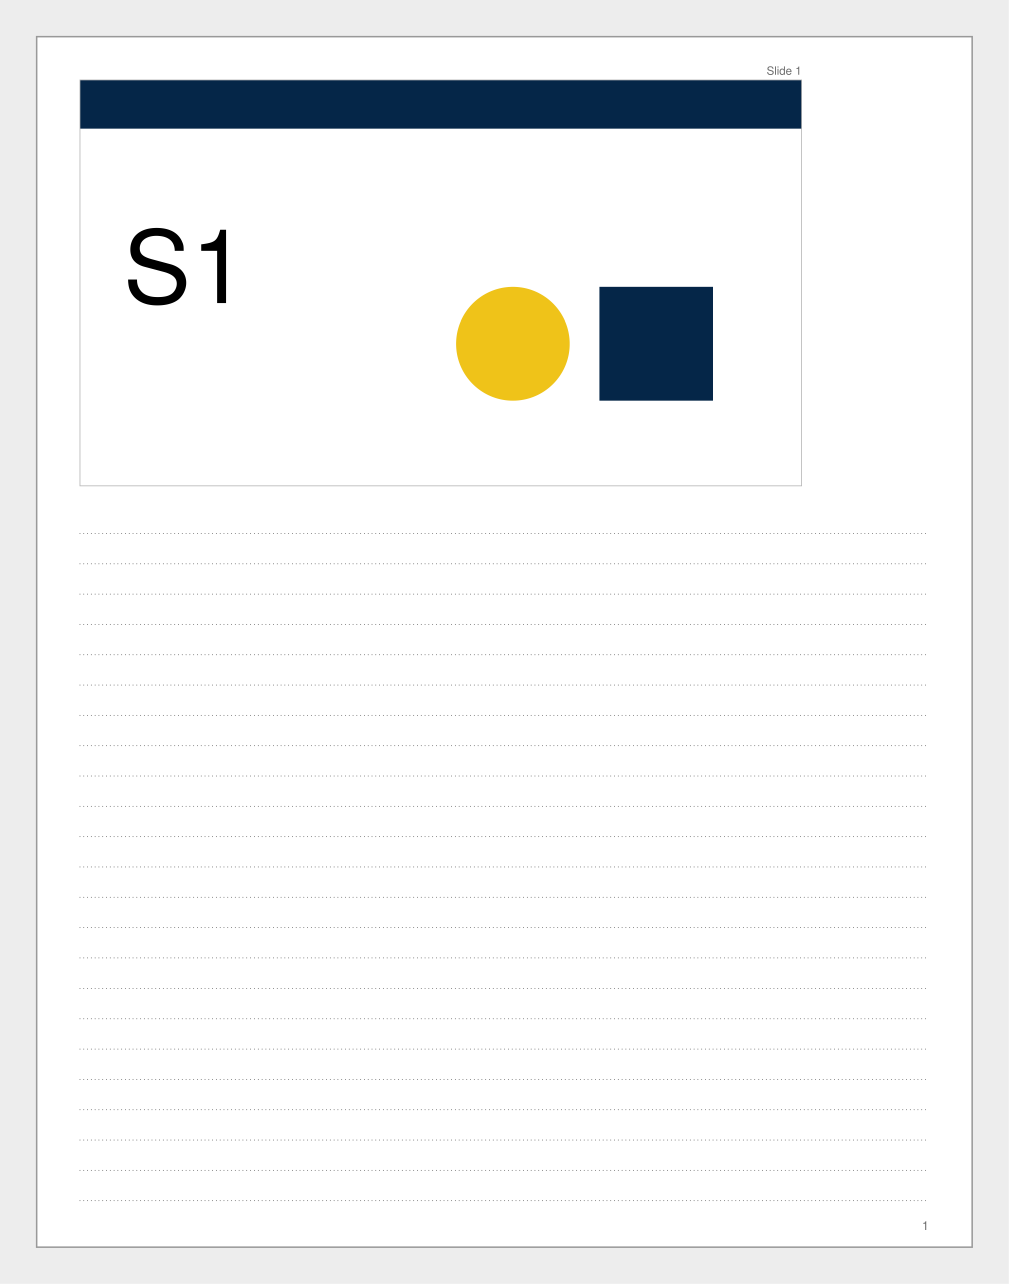
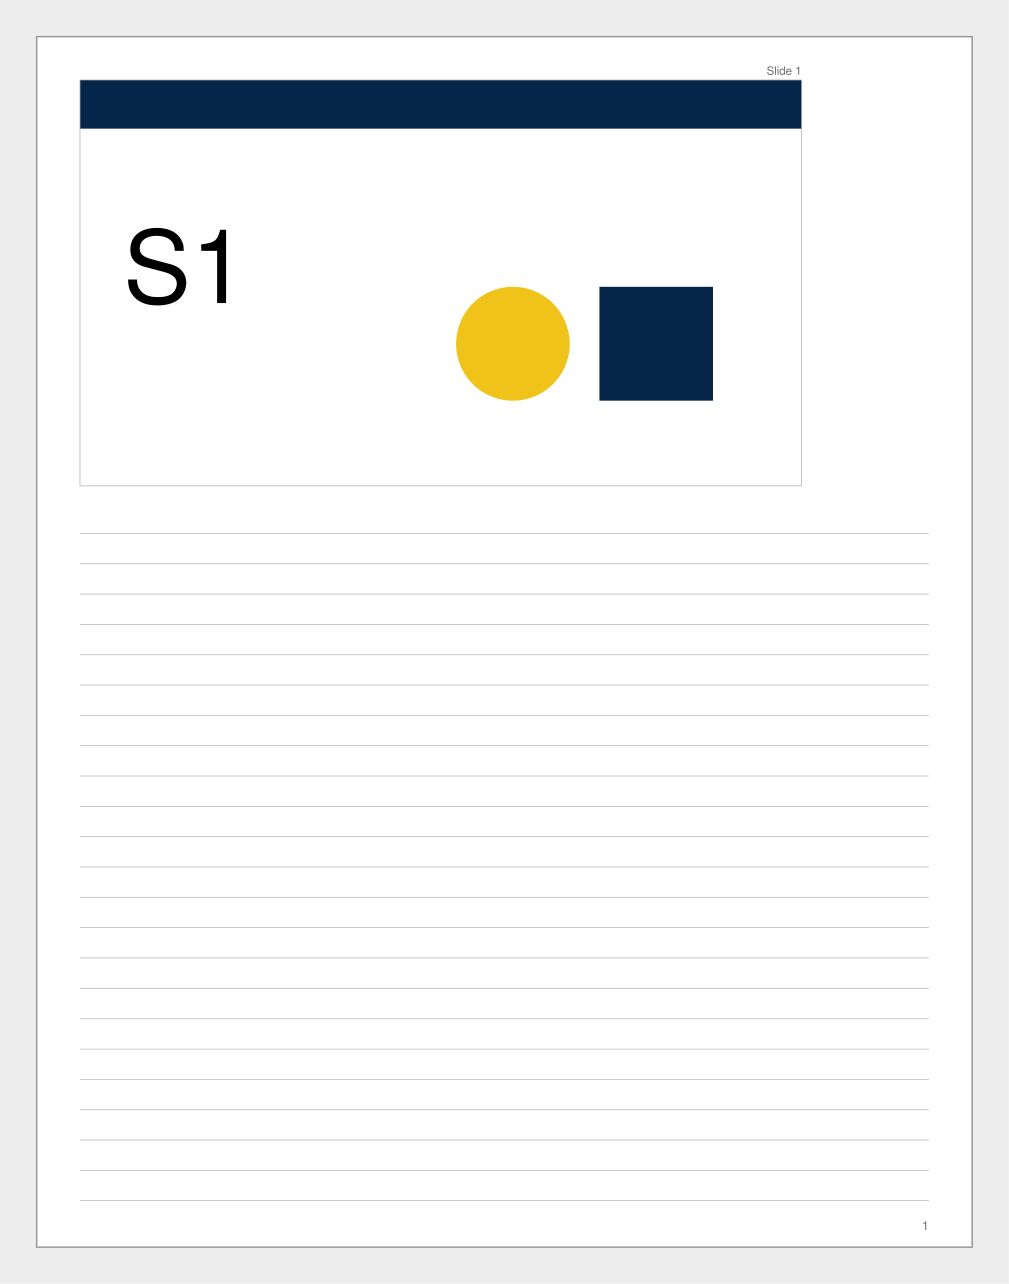
fix: final review fixes, solid or dotted lines, clearer skill questions
- Pin Python 3.13 in every run command, so a fresh machine resolves
  PyMuPDF 2.1 (onnxruntime has no wheels for the newest Python).
- Refuse a picture named .pdf, pages turned inside the PDF, and pages
  narrower than any slide that are not a paper size.
- Refuse a typeable box on both sides before building or saving.
- Conversion closes a deck only if it opened it, so a deck already open
  keeps its unsaved edits; a compile test guards both AppleScripts.
- Lines can be solid (light grey) or dotted (dark grey dots);
  gallery examples 3 and 11 show dotted lines.
- The skill asks each option on its own and never drops a choice,
  leaves file naming to the script, and saves a gallery example as the
  usual under the person's own name.

diff --git a/tests/test_skill.py b/tests/test_skill.py
@@ -19,8 +19,19 @@ def test_skill_uses_only_real_subcommands_and_flags():
             if isinstance(action, type(parser._subparsers._group_actions[0])):
                 for nested in action.choices.values():
                     known |= {f for a in nested._actions for f in a.option_strings}
-    uv_flags = {"--no-project", "--with", "--directory", "--version"}
+    uv_flags = {"--no-project", "--with", "--directory", "--version", "--python"}
     assert set(re.findall(r"(--[a-z][a-z-]+)", text)) - uv_flags <= known
+
+
+def test_every_run_command_names_python_3_13():
+    # PyMuPDF 2.1 needs onnxruntime, which has no wheels for the newest Python, so a fresh machine
+    # fails unless uv is told which Python to use (final review C1; Julian kept 2.1, 2026-11-10).
+    root = SKILL.parents[2]
+    files = [SKILL, root / "CLAUDE.md", root / "scripts" / "handouts.py",
+             root / "tools" / "build_gallery.py", root / "tests" / "make_fixtures.py"]
+    commands = [line for f in files for line in f.read_text().splitlines() if "uv run" in line and "pymupdf" in line]
+    assert len(commands) >= 6
+    assert all("--python 3.13" in line for line in commands), [c for c in commands if "--python 3.13" not in c]
 
 
 def test_description_names_the_job_and_trigger_phrases():
@@ -34,3 +45,29 @@ def test_no_ranking_words():
     for path in (SKILL, SKILL.parents[2] / "README.md"):
         if path.exists():
             assert not re.search(r"\b(recommend\w*|best|ideal|preferred|most popular)\b", path.read_text(), re.I), path
+
+
+def test_skill_asks_each_option_on_its_own_and_never_drops_a_choice():
+    # Install test, 2026-11-10: notes position and style merged into one 4-choice question hid blank space,
+    # the typeable box and "beside and under". AskUserQuestion shows at most four choices.
+    text = SKILL.read_text()
+    assert "Ask each option as its own question" in text and "Never leave a choice out" in text
+    assert '"1", "2", "3" and "4 or 6"' in text and "solid or dotted" in text
+
+
+def test_skill_leaves_the_naming_to_the_script():
+    # Install test: Claude chose its own --out names, which skipped the script's safe names and _v2 rule.
+    assert "Leave out `--out` unless the person names a folder or a file name" in SKILL.read_text()
+
+
+def test_skill_saves_a_gallery_example_as_usual_under_a_new_name():
+    # Install test: "make example 6 my usual" hit the gallery refusal before Claude asked for a name.
+    text = SKILL.read_text()
+    assert "To make a gallery example the usual, ask for a name of their own" in text
+
+
+def test_skill_flags_are_on_the_commands_that_take_them():
+    # Final review minor 11: --deck went to "every later command", but preview and layouts save reject it.
+    text = SKILL.read_text()
+    assert "pass `--deck <original file>` to `detect` and `build`" in text
+    assert "and pass it to `build` too" in text and '"${CLAUDE_PLUGIN_ROOT}/scripts/handouts.py" convert' not in text

diff --git a/scripts/slide_handouts/render.py b/scripts/slide_handouts/render.py
@@ -9,7 +9,8 @@ from .detect import Detection
 from .geometry import MARGIN, MM, LayoutOptions, check_layout, plan_page
 
 BORDER = (0.70, 0.70, 0.70)
-LINE = (0.25, 0.25, 0.25)          # 75% black, dark charcoal (Julian, 2026-11-10)
+LINE = (0.25, 0.25, 0.25)          # dotted lines and dots: 75% black, dark charcoal (Julian, 2026-11-10)
+SOLID = (0.73, 0.73, 0.73)         # solid lines: 27% black, as before dotted lines arrived
 LABEL = (0.43, 0.43, 0.43)          # #6E6E6E, 4.5 to 1 on white
 LABEL_COLOUR_INT = 0x6E6E6E
 FIELD_TEXT = (0.13, 0.13, 0.13)
@@ -48,23 +49,26 @@ def _box(page: pymupdf.Page, rect: pymupdf.Rect, number: int, digits: int) -> No
 def _marks(page: pymupdf.Page, areas: list, style: str, spacing: float) -> None:
     """All of a page's lines or dots in one shape, so big decks stay quick and small.
 
-    Each row is one dashed stroke, as a dotted stroke in Illustrator: each tiny round-capped dash is a dot.
-    Lines are rows of dots an eighth of the spacing apart (Julian, 2026-11-10); dots are a square grid."""
-    if style not in ("lines", "dots") or not areas:
+    Dotted lines and the dot grid are one dashed stroke per row, as a dotted stroke in Illustrator: each tiny
+    round-capped dash is a dot. Dotted lines have dots an eighth of the spacing apart (Julian, 2026-11-10)."""
+    if style not in ("lines", "dotted", "dots") or not areas:
         return
-    step = spacing / 8 if style == "lines" else spacing
+    step = spacing / 8 if style == "dotted" else spacing
     shape = page.new_shape()
     for a in areas:
-        if style == "lines":
-            first, y, bottom = a.x0, a.y0 + spacing, a.y1 + 0.01
-        else:
+        if style == "dots":
             first, y, bottom = a.x0 + spacing / 2, a.y0 + spacing / 2, a.y1
-        last = first + int((a.x1 - first) // step) * step
+        else:
+            first, y, bottom = a.x0, a.y0 + spacing, a.y1 + 0.01
+        # a dotted row runs half a gap past its last dot, so that dot's dash is drawn
+        end = a.x1 if style == "lines" else first + int((a.x1 - first) // step) * step + step / 2
         while y <= bottom:
-            shape.draw_line((first, y), (last + step / 2, y))  # half a gap past the last dot, so its dash is drawn
+            shape.draw_line((first, y), (end, y))
             y += spacing
-    # the dash period equals the step exactly, so dots never creep along a row
-    shape.finish(color=LINE, width=0.6, lineCap=1, closePath=False, dashes=f"[0.01 {step - 0.01:.4f}] 0")
+    if style == "lines":
+        shape.finish(color=SOLID, width=0.5)
+    else:  # the dash period equals the step exactly, so dots never creep along a row
+        shape.finish(color=LINE, width=0.6, lineCap=1, closePath=False, dashes=f"[0.01 {step - 0.01:.4f}] 0")
     shape.commit()
 
 

diff --git a/tests/test_render.py b/tests/test_render.py
@@ -36,7 +36,7 @@ def test_typeable_box_fields(tmp_path):
     assert doc.xref_get_key(doc.pdf_catalog(), "AcroForm/NeedAppearances") == ("bool", "true")
 
 
-@pytest.mark.parametrize("style, marks", [("lines", True), ("dots", True), ("blank", False)])
+@pytest.mark.parametrize("style, marks", [("lines", True), ("dotted", True), ("dots", True), ("blank", False)])
 def test_each_notes_style_draws_its_marks(tmp_path, style, marks):
     _, out = build(tmp_path, notes="under", per_page=2, style=style, spacing_mm=5 if style == "dots" else 8)
     page = pymupdf.open(out)[0]
@@ -113,17 +113,25 @@ def test_dots_sit_on_the_grid_to_the_end_of_each_row(tmp_path):
             assert pix.pixel(round((x + step / 2) * zoom), round(y * zoom))[0] > 250, (x, y)  # white between
 
 
-@pytest.mark.parametrize("style", ["lines", "dots"])
+@pytest.mark.parametrize("style", ["dotted", "dots"])
 def test_notes_marks_are_75_percent_black(tmp_path, style):
-    # Julian, 2026-11-10: lines and the dot grid print in dark charcoal, not light grey.
+    # Julian, 2026-11-10: dotted lines and the dot grid print in dark charcoal, not light grey.
     _, out = build(tmp_path, src=deck_pdf(tmp_path / "d.pdf", n=2), notes="under", per_page=2, style=style, spacing_mm=8)
     strokes = [d for d in pymupdf.open(out)[0].get_drawings() if (d.get("dashes") or "[] 0") != "[] 0"]
     assert strokes and all(pytest.approx(d["color"], abs=0.01) == (0.25, 0.25, 0.25) for d in strokes)
 
 
-def test_lines_are_dotted_with_dots_an_eighth_of_the_spacing_apart(tmp_path):
-    # Julian, 2026-11-10: each ruled line is a row of dots an eighth of the spacing apart (1 mm at 8 mm lines).
-    opts = dict(notes="under", per_page=2, style="lines", spacing_mm=8)
+def test_solid_lines_are_unbroken_and_light_grey(tmp_path):
+    # Julian, 2026-11-10: lines can be solid or dotted. Solid lines come back as they were: 0.5 pt, 27% black.
+    _, out = build(tmp_path, src=deck_pdf(tmp_path / "d.pdf", n=2), notes="under", per_page=2, style="lines", spacing_mm=8)
+    lines = [d for d in pymupdf.open(out)[0].get_drawings() if any(i[0] == "l" for i in d["items"])]
+    assert lines and all((d.get("dashes") or "[] 0") == "[] 0" for d in lines)
+    assert all(pytest.approx(d["color"], abs=0.01) == (0.73, 0.73, 0.73) and abs(d["width"] - 0.5) < 0.01 for d in lines)
+
+
+def test_dotted_lines_have_dots_an_eighth_of_the_spacing_apart(tmp_path):
+    # Julian, 2026-11-10: each dotted line is a row of dots an eighth of the spacing apart (1 mm at 8 mm lines).
+    opts = dict(notes="under", per_page=2, style="dotted", spacing_mm=8)
     _, out = build(tmp_path, src=deck_pdf(tmp_path / "d.pdf", n=2), **opts)
     area = plan_page(LayoutOptions(**{**O, **opts}), 405 / 720).cells[0].notes[0]
     spacing, zoom = 8 * 72 / 25.4, 8

diff --git a/tests/test_convert.py b/tests/test_convert.py
@@ -16,6 +16,27 @@ from slide_handouts.detect import RefusedError
 REAL = Path(__file__).parent / "fixtures" / "real"
 
 
+@pytest.mark.parametrize("app, kind", [("PowerPoint", "presentations"), ("Keynote", "documents")])
+def test_a_deck_that_was_already_open_is_left_open(app, kind):
+    # Final review I2: opening an already-open deck returns the person's window, and "close saving no" then
+    # dropped their unsaved edits. Close only a deck the script opened itself: the count of open ones went up.
+    script = convert_module.MAC_SCRIPTS[app]
+    lines = [line.strip() for line in script.splitlines()]
+    count = lines.index(f"set openBefore to count of {kind}")
+    opened = next(i for i, line in enumerate(lines) if line.startswith(("open ", "set d to open ")))
+    closes = [line for line in lines if " saving no" in line]
+    assert count < opened and closes and all(line.startswith(f"if (count of {kind}) > openBefore then close ") for line in closes)
+
+
+@pytest.mark.skipif(sys.platform != "darwin" or not shutil.which("osacompile"), reason="needs macOS osacompile")
+@pytest.mark.parametrize("app", ["PowerPoint", "Keynote"])
+def test_mac_scripts_compile(app, tmp_path):
+    # A reserved word ("before") once broke both scripts while every text check passed.
+    result = subprocess.run(["osacompile", "-o", str(tmp_path / "s.scpt"), "-"], input=convert_module.MAC_SCRIPTS[app],
+                            capture_output=True, text=True)
+    assert result.returncode == 0, result.stderr
+
+
 def test_sweep_removes_only_old_folders(tmp_path, monkeypatch):
     monkeypatch.setattr(tempfile, "tempdir", str(tmp_path))
     old, new, other = (tmp_path / n for n in ("slide-handouts-old", "slide-handouts-new", "keep-me"))

diff --git a/tests/test_layouts.py b/tests/test_layouts.py
@@ -1,9 +1,10 @@
+import argparse
 import json
 from collections import defaultdict
 
 import pytest
 
-from slide_handouts.layouts import (GALLERY, LayoutError, delete_layout, list_layouts, load_store, resolve,
+from slide_handouts.layouts import (GALLERY, LayoutError, add_layout_arguments, delete_layout, list_layouts, load_store, resolve,
                                     save_layout)
 
 FULL = ["--paper", "a4", "--orientation", "portrait", "--per-page", "3", "--notes", "beside",
@@ -65,7 +66,10 @@ def test_gallery_covers_every_option_value(tmp_path):
         seen["size"].add(o.size if isinstance(o.size, str) else "mm")
         seen["spacing"].add(o.spacing_mm)
     assert seen["per_page"] == {1, 2, 3, 4, 6} and seen["notes"] == {"beside", "under", "both"}
-    assert seen["style"] == {"lines", "dots", "blank", "box"} and {5, 6, 7, 8} <= seen["spacing"]
+    parser = argparse.ArgumentParser()
+    add_layout_arguments(parser)
+    styles = next(a for a in parser._actions if a.dest == "style").choices  # every style the script offers
+    assert seen["style"] == set(styles) and {5, 6, 7, 8} <= seen["spacing"]
     assert seen["size"] == {"smaller", "medium", "larger", "mm"} and len(seen["paper"]) == 2
 
 
@@ -78,3 +82,5 @@ def test_spacing_fallbacks_follow_the_style(tmp_path):
     dots = [a if a != "lines" else "dots" for a in FULL]
     assert resolve(dots, None, tmp_path / "l.json").spacing_mm == 5
     assert resolve(FULL, None, tmp_path / "l.json").spacing_mm == 8
+    dotted = [a if a != "lines" else "dotted" for a in FULL]
+    assert resolve(dotted, None, tmp_path / "l.json").spacing_mm == 8

diff --git a/scripts/slide_handouts/detect.py b/scripts/slide_handouts/detect.py
@@ -39,6 +39,8 @@ def open_pdf(path: Path) -> pymupdf.Document:
         doc = pymupdf.open(str(path), filetype="pdf")
     except Exception:
         raise RefusedError(f"{name} could not be opened. It may be damaged, or not a PDF.") from None
+    if not doc.is_pdf:  # MuPDF opens a picture even when told it is a PDF
+        raise RefusedError(f"{name} is not a PDF. Export the slides to PDF and try again.")
     if doc.needs_pass:
         raise RefusedError(f"{name} is protected by a password. Export it again without one.")
     if doc.page_count == 0:
@@ -210,6 +212,8 @@ def _handout(doc: pymupdf.Document, frames: list, order: str) -> Detection:
 
 
 def detect(doc: pymupdf.Document, order: str = "rows", one_per_page: bool = False) -> Detection:
+    if any(page.rotation for page in doc):  # show_pdf_page ignores a source page's rotation
+        raise RefusedError(f"Some pages are turned inside the PDF, so the slides cannot be placed reliably. {EXPORT_ADVICE}")
     if one_per_page:
         return _deck(doc)
     frames = _frames(doc)
@@ -221,4 +225,6 @@ def detect(doc: pymupdf.Document, order: str = "rows", one_per_page: bool = Fals
     # Keynote's handout export uses 1024 x 768 pt pages, not paper.
     if frames and len(frames[0]) >= 2 and all(len(f) >= 2 for f in frames[:-1]):
         return _handout(doc, frames, order)
+    if doc[0].rect.width / doc[0].rect.height < 1.2:  # narrower than any slide: a scan or a printed page
+        raise RefusedError(NO_FRAMES)
     return _deck(doc)

diff --git a/scripts/slide_handouts/convert.py b/scripts/slide_handouts/convert.py
@@ -18,14 +18,17 @@ OLD_TEMP = 24 * 3600
 EXPORT_YOURSELF = "export a PDF from your slide app instead, one slide per page, as the guide shows"
 PERMISSION = ("macOS did not allow Claude to control {app}. To allow it, open System Settings, Privacy and Security, "
               "Automation, and turn on {app} under the app you run Claude Code in. Or export the PDF yourself, as the guide shows.")
+# Opening a deck that is already open returns the person's own window, so a script closes only a deck it
+# opened itself, or "saving no" would drop their unsaved edits.
 MAC_SCRIPTS = {
     "PowerPoint": """on run argv
 	with timeout of 300 seconds
 		tell application "Microsoft PowerPoint"
+			set openBefore to count of presentations
 			open POSIX file (item 1 of argv)
 			set p to active presentation
 			save p in POSIX file (item 2 of argv) as save as PDF
-			close p saving no
+			if (count of presentations) > openBefore then close p saving no
 		end tell
 	end timeout
 end run""",
@@ -34,9 +37,10 @@ end run""",
 		tell application "Keynote"
 			launch
 			delay 2
+			set openBefore to count of documents
 			set d to open POSIX file (item 1 of argv)
 			export d to POSIX file (item 2 of argv) as PDF with properties {PDF image quality:Best, skipped slides:false}
-			close d saving no
+			if (count of documents) > openBefore then close d saving no
 		end tell
 	end timeout
 end run""",

diff --git a/tests/test_detect_deck.py b/tests/test_detect_deck.py
@@ -3,6 +3,8 @@ from pathlib import Path
 
 import pytest
 
+import pymupdf
+
 from make_fixtures import damaged_pdf, deck_pdf, empty_pdf, encrypted_pdf, paper_deck_pdf
 from slide_handouts.detect import RefusedError, detect, open_pdf, shape_name
 
@@ -48,3 +50,21 @@ def test_real_deck_exports(name):
     d = detect(open_pdf(REAL / name))
     assert len(d.slides) == EXPECTED[name]["count"]
     assert [s.number for s in d.slides] == EXPECTED[name]["numbers"]
+
+
+def test_refuses_a_picture_named_pdf(tmp_path):
+    # Final review I5: MuPDF opens a PNG even when told it is a PDF, and build then failed with a traceback.
+    picture = tmp_path / "slides.pdf"
+    pymupdf.Pixmap(pymupdf.csRGB, pymupdf.IRect(0, 0, 40, 30), False).save(str(picture), output="png")
+    with pytest.raises(RefusedError, match="not a PDF"):
+        open_pdf(picture)
+
+
+@pytest.mark.parametrize("one_per_page", [False, True])
+def test_refuses_pages_turned_inside_the_pdf(tmp_path, one_per_page):
+    # Final review I6: a /Rotate page was placed cropped and unrotated, and the self-check passed.
+    doc = pymupdf.open(deck_pdf(tmp_path / "d.pdf", n=2))
+    doc[1].set_rotation(90)
+    doc.save(str(tmp_path / "r.pdf"))
+    with pytest.raises(RefusedError, match="turned"):
+        detect(open_pdf(tmp_path / "r.pdf"), one_per_page=one_per_page)

diff --git a/scripts/slide_handouts/geometry.py b/scripts/slide_handouts/geometry.py
@@ -48,7 +48,7 @@ class PageLayout:
 
 
 def under_min(opts: LayoutOptions) -> float:
-    return 2 * opts.spacing_mm * MM if opts.style in ("lines", "dots") else 16 * MM
+    return 2 * opts.spacing_mm * MM if opts.style in ("lines", "dotted", "dots") else 16 * MM
 
 
 def _larger(opts, cols, rows, w, h, aspect):
@@ -156,9 +156,9 @@ def check_layout(layout: PageLayout, opts: LayoutOptions) -> list[str]:
 
 
 def describe(opts: LayoutOptions) -> str:
-    style = {"lines": "lines", "dots": "dots", "blank": "blank space", "box": "a typeable box"}[opts.style]
+    style = {"lines": "lines", "dotted": "dotted lines", "dots": "dots", "blank": "blank space", "box": "a typeable box"}[opts.style]
     where = {"beside": "beside each slide", "under": "under each slide", "both": "beside and under each slide"}[opts.notes]
-    spacing = f" ({opts.spacing_mm:g} mm apart)" if opts.style in ("lines", "dots") else ""
+    spacing = f" ({opts.spacing_mm:g} mm apart)" if opts.style in ("lines", "dotted", "dots") else ""
     size = f"{opts.size} slides" if isinstance(opts.size, str) else f"slides {opts.size:g} mm wide"
     per = "1 slide per page" if opts.per_page == 1 else f"{opts.per_page} slides per page"
     return f"{'A4' if opts.paper == 'a4' else 'Letter'} {opts.orientation}, {per}, {style} {where}{spacing}, {size}"

diff --git a/scripts/slide_handouts/layouts.py b/scripts/slide_handouts/layouts.py
@@ -51,7 +51,7 @@ def add_layout_arguments(parser: argparse.ArgumentParser) -> None:
     parser.add_argument("--orientation", choices=["portrait", "landscape"])
     parser.add_argument("--per-page", type=int, choices=[1, 2, 3, 4, 6])
     parser.add_argument("--notes", choices=["beside", "under", "both"])
-    parser.add_argument("--style", choices=["lines", "dots", "blank", "box"])
+    parser.add_argument("--style", choices=["lines", "dotted", "dots", "blank", "box"])
     parser.add_argument("--spacing", type=_spacing, help="4 to 12 mm")
     parser.add_argument("--size", type=_size, help="smaller, medium, larger or a slide width in mm")
 
@@ -104,6 +104,8 @@ def resolve(typed: list[str], name: str | None, store: Path = STORE) -> LayoutOp
     missing = [key.replace("_", "-") for key in REQUIRED if getattr(ns, key) is None]
     if missing:
         raise LayoutError("Missing layout options: " + ", ".join(missing) + ".")
+    if ns.style == "box" and ns.notes == "both":
+        raise LayoutError("A typeable box works with notes beside or under each slide, not both.")
     spacing = ns.spacing if ns.spacing is not None else (5.0 if ns.style == "dots" else 8.0)
     return LayoutOptions(ns.paper, ns.orientation, ns.per_page, ns.notes, ns.style, spacing, ns.size)
 

diff --git a/tests/make_fixtures.py b/tests/make_fixtures.py
@@ -1,7 +1,7 @@
 """Test fixtures: a made-up deck and synthetic PDFs. Never real decks.
 
 Run as a script to make the made-up deck:
-uv run --no-project --with python-pptx --with "pymupdf>=2.1,<3" python -I tests/make_fixtures.py deck <out.pptx>
+uv run --no-project --python 3.13 --with python-pptx --with "pymupdf>=2.1,<3" python -I tests/make_fixtures.py deck <out.pptx>
 """
 import sys
 import tempfile
@@ -142,12 +142,12 @@ def handout_pdf(path: Path, n: int = 7, per_page: int = 3, numbers: bool = True,
     return path
 
 
-def scanned_handout_pdf(path: Path) -> Path:
-    """A handout page that is one picture, as a scan would be."""
+def scanned_handout_pdf(path: Path, size: tuple[float, float] = A4) -> Path:
+    """A handout page that is one picture, as a scan would be. Some scanner apps write the page at its pixel size."""
     source = pymupdf.open(handout_pdf(Path(path).with_suffix(".source.pdf"), n=3))
     pix = source[0].get_pixmap(dpi=100)
     out = pymupdf.open()
-    out.new_page(width=A4[0], height=A4[1]).insert_image(pymupdf.Rect(0, 0, *A4), pixmap=pix)
+    out.new_page(width=size[0], height=size[1]).insert_image(pymupdf.Rect(0, 0, *size), pixmap=pix)
     out.save(str(path))
     return Path(path)
 

diff --git a/tests/test_cli.py b/tests/test_cli.py
@@ -97,3 +97,15 @@ def test_preview_renders_first_and_last_and_marks_order(tmp_path):
     src = handout_pdf(tmp_path / "h.pdf", n=7)
     imgs = render_pages(src, ["1", "last"], tmp_path / "png", mark=detect(open_pdf(src)))
     assert len(imgs) == 2 and all(p.exists() and p.suffix == ".png" for p in imgs)
+
+
+@pytest.mark.parametrize("command", ["build", "save"])
+def test_typeable_box_on_both_sides_is_refused_plainly(tmp_path, capsys, monkeypatch, command):
+    # Final review I4: layouts save accepted it, and build failed with "Something went wrong" and a traceback.
+    monkeypatch.setattr(layouts, "STORE", tmp_path / "l.json")
+    both = [a if a not in ("beside", "lines") else {"beside": "both", "lines": "box"}[a] for a in FULL]
+    argv = ["build", handout_pdf(tmp_path / "h.pdf"), *both] if command == "build" else ["layouts", "save", "two boxes", *both]
+    code = main([str(a) for a in argv])
+    captured = capsys.readouterr()
+    assert code == 1 and json.loads(captured.out)["error"].startswith("A typeable box works")
+    assert captured.err == "" and not (tmp_path / "l.json").exists()
